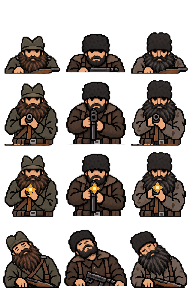
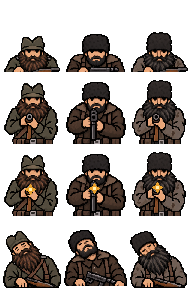
nemci i četnici neretva

diff --git a/scenes/neretva/Svabo.js b/scenes/neretva/Svabo.js
@@ -6,6 +6,7 @@ import { ctx } from '/core/io/platno.js'
 const rafal = createSound('rafal.mp3')
 const SHOT_INTERVAL = .18
 const FALL_TIME = 1.2
+const frameCache = new Map()
 
 export default class Svabo extends Predmet {
 
@@ -16,6 +17,21 @@ export default class Svabo extends Predmet {
     this.idlePhase = Math.random() * Math.PI * 2
     this.art = new Predmet(`armies/game-ready/vojnici/${faction}-spreda.png`,
       { vidljiv: false, sirina: 64, visina: 72 })
+    this.frames = null
+    this.art.onload = () => {
+      if (!frameCache.has(faction)) {
+        const frames = Array.from({ length: 4 }, (_, row) =>
+          Array.from({ length: 3 }, (_, column) => {
+            const frame = document.createElement('canvas')
+            frame.width = 68
+            frame.height = 76
+            frame.getContext('2d').drawImage(this.art.slika, column * 64, row * 72, 64, 72, 2, 2, 64, 72)
+            return frame
+          }))
+        frameCache.set(faction, frames)
+      }
+      this.frames = frameCache.get(faction)
+    }
     this.predmeti.push(this.art)
     this.ucestalost = ucestalost
     this.callback = callback
@@ -94,8 +110,8 @@ export default class Svabo extends Predmet {
     ctx.globalAlpha *= alpha
     ctx.translate(this.x + x * scale, this.y + y * scale)
     ctx.rotate(angle)
-    ctx.drawImage(this.art.slika, this.variant * 64, row * 72, 64, 72,
-      -32 * scale, -60 * scale, 64 * scale, 72 * scale)
+    // An isolated, padded frame cannot sample neighboring poses when rotated or scaled.
+    ctx.drawImage(this.frames[row][this.variant], -34 * scale, -62 * scale, 68 * scale, 76 * scale)
     ctx.restore()
   }
 
@@ -103,7 +119,7 @@ export default class Svabo extends Predmet {
     if (!this.prikazan || !this.slika.naturalWidth) return
     ctx.save()
     ctx.imageSmoothingEnabled = false
-    if ((this.stoji || this.fallenFor) && this.art.slika.naturalWidth) {
+    if ((this.stoji || this.fallenFor) && this.frames) {
       if (!this.stoji) {
         const elapsed = FALL_TIME - this.fallenFor
         const collapse = Math.min(1, elapsed / .35)

diff --git a/docs/ARHITEKTURA.md b/docs/ARHITEKTURA.md
@@ -35,6 +35,8 @@ Akumulator vremena i interpolacija položaja imaju po jednog vlasnika. [Ammo wra
 
 ## Učitavanje i resursi
 
+Kod sprite tabli proveriti svako polje zasebno na providnoj i kontrastnoj pozadini: ravnomerna mreža nije dokaz da crtež ne prelazi granicu polja. U Neretvi su delovi susednih poza ostali kao odvojene crte iznad likova; ukloniti takve ostatke bez sečenja tela i opreme. Frejmove koji se rotiraju ili pomeraju pripremiti jednom, izdvojene sa providnim rubom, da uzorkovanje ne zahvata susednu pozu; deliti pripremljene frejmove među istim likovima. Posle obrade proveriti i boje i alfa kanal, ne samo siluetu.
+
 Preuzeta ili dekodirana slika nije dokaz da je prvo crtanje jeftino: Canvas može naknadno dekodirati i skalirati za traženu veličinu. U svakom nivou za male prikaze koristiti odgovarajući radni raster i proveravati prvo pojavljivanje u kadru, ne samo mrežu i JavaScript; velika izvorna ilustracija može ostati odvojeno sačuvana. Ako nivo zastaje pri ulasku vozila ili efekta, uporediti isti početak sa manjim rasterom pre menjanja fizike ili proširivanja preloada: mala cena JS koda ne isključuje zastoj u prikazu.
 
 [Keš modela](../core3d/assets/models.js) razdvaja opis resursa od njegovog učitavanja, spaja zahteve i omogućava ponovni pokušaj posle greške. Učitavanje, odbacivanje zastarelog rezultata i oslobađanje resursa su različite odgovornosti. Otkazivanje jednog korisnika ne sme poništiti resurs koji još koristi drugi; AbortController ne zaustavlja proizvoljan Promise.
